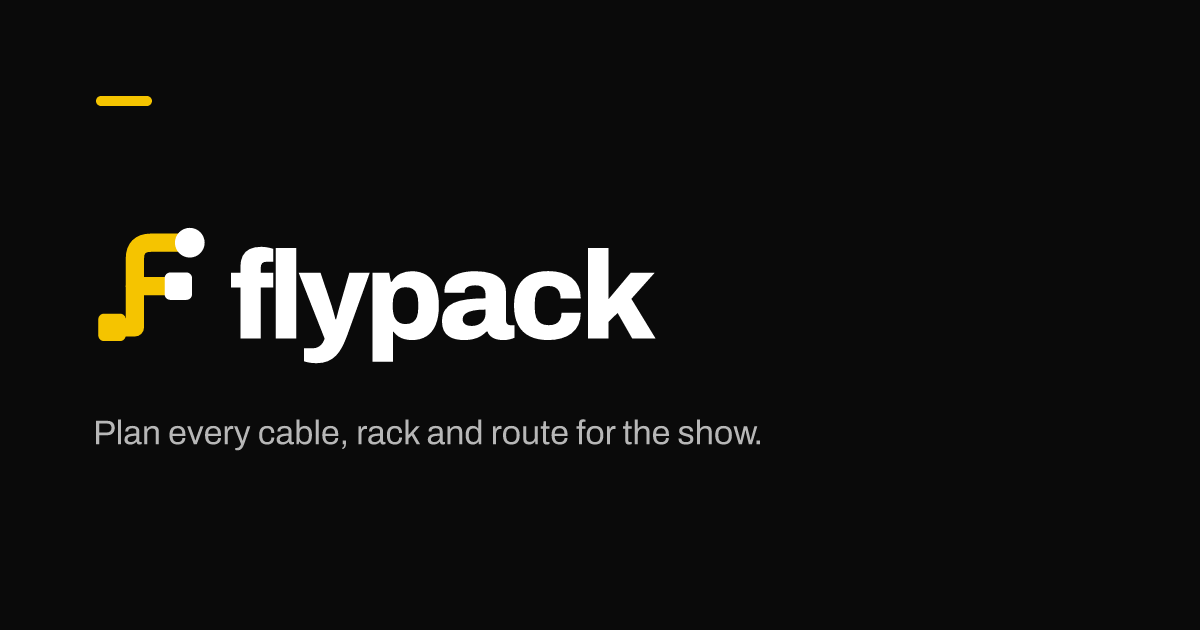
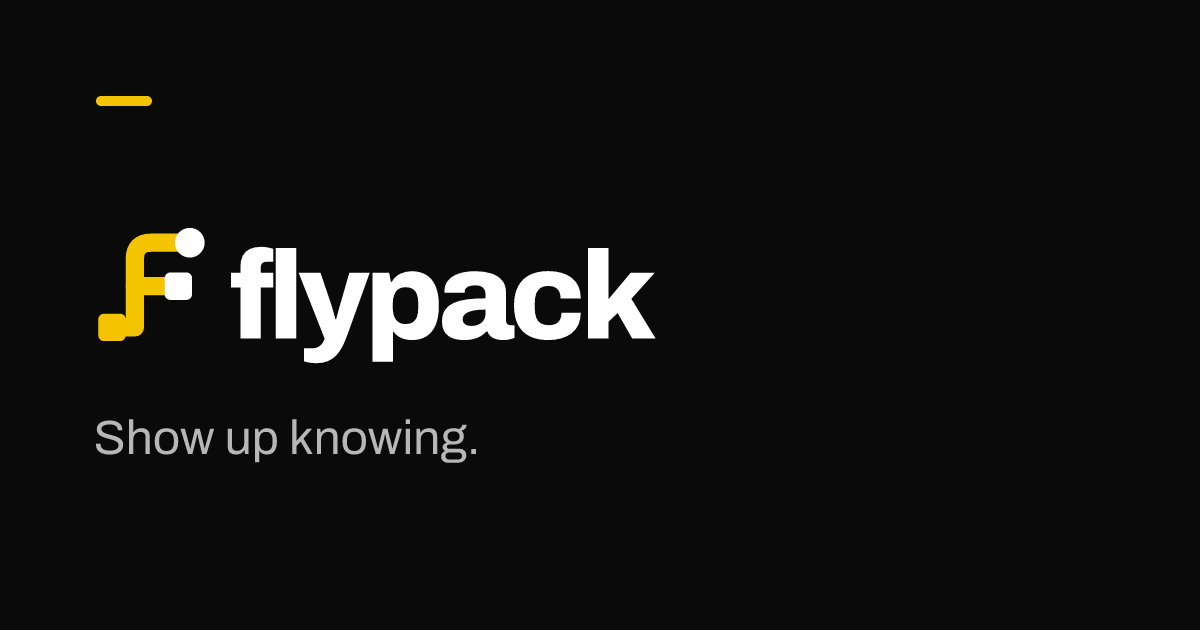
Set tagline to "Show up knowing."
Rebuilds the social cards with the new line and records how it was picked in brand/TAGLINE.md.

Changed region(s): [[0.0617, 0.6635, 0.6475, 0.754]]

diff --git a/brand/TAGLINE.md b/brand/TAGLINE.md
@@ -1,0 +1,35 @@
+# Flypack tagline
+
+## Purpose (agreed 2026-10-30)
+
+> We are here so that production crews can keep every plan for a show in one place and arrive at the venue knowing what goes where.
+
+## The tagline
+
+> Show up knowing.
+
+- **Direction:** the outcome, said with confidence
+- **Picked:** 2026-10-30, in round three
+- **Used on:** the Open Graph cards (`social/`) and the brand kit cover in Paper
+- **Check:** an exact-phrase web search found no other product, AV or otherwise, using it. That was a courtesy search, not a trademark check.
+
+## What was said along the way
+
+- Round one: the "what you can stop doing" direction was the closest.
+- Round two: none of the lines landed. They read as too negative ("stop", "no more") and too literal, like feature descriptions.
+- Round three asked for confident, positive lines with attitude. "Show up knowing." was picked.
+- **Words to avoid:** "stop", "no more", and any word from the name ("pack", "fly"). Lines that lean on the name read as generic.
+
+## Other lines shown (don't propose these again)
+
+| Line | Round | Why not |
+| --- | --- | --- |
+| Plan every cable, rack and route for the show. | placeholder | A list of three that describes features |
+| Say the patch. Flypack draws it. / Talk to it like your A2. / Call it. Cable it. | earlier rounds | "Call it. Cable it." didn't make sense; the voice angle promises a feature that isn't built yet |
+| Pack the show before the truck. / Packed to fly. / Pack once. Fly anywhere. / Your whole show, in one case. | earlier rounds | Too generic; lean on the name |
+| Know what goes where before you arrive. / The whole show, planned before load-in. | 1 | Not picked |
+| For the people who wire the show. / For whoever gets asked where it goes. | 1 | Not picked |
+| No more patch sheets taped to the rack. / Stop rebuilding the patch at every venue. | 1 | Direction liked, lines not |
+| Every connection in one place. / One plan the whole crew can read. | 1 | Not picked |
+| Stop finding out at load-in. / Stop guessing cable lengths at the venue. / Stop counting cable on the truck ramp. / No more patch sheet in a plastic sleeve. / Stop redrawing the same show every week. / No more retyping the patch for every sheet. | 2 | Too negative, too literal |
+| Ready before doors. / Load in like you have done it before. / Walk in with the whole show. | 3 | Not picked; "Ready before doors." is the strongest backup |

diff --git a/brand/README.md b/brand/README.md
@@ -4,6 +4,8 @@
 
 The mark is a cable route drawn as an F: a pad where the cable starts, a dot where it ends, and a pad where the crossbar lands. The wordmark is Archivo ExtraBold at −0.045em tracking, converted to outlines, so no file here needs the font installed.
 
+Tagline: **Show up knowing.** How it was chosen, and the lines that were turned down, are in [TAGLINE.md](TAGLINE.md).
+
 Design source: the "Brand kit v1" page of the Paper file [Flypack — Logo exploration](https://app.paper.design/file/01M65S3PQBM4ZSMGEAZ3F78QB6).
 
 ## What's here
